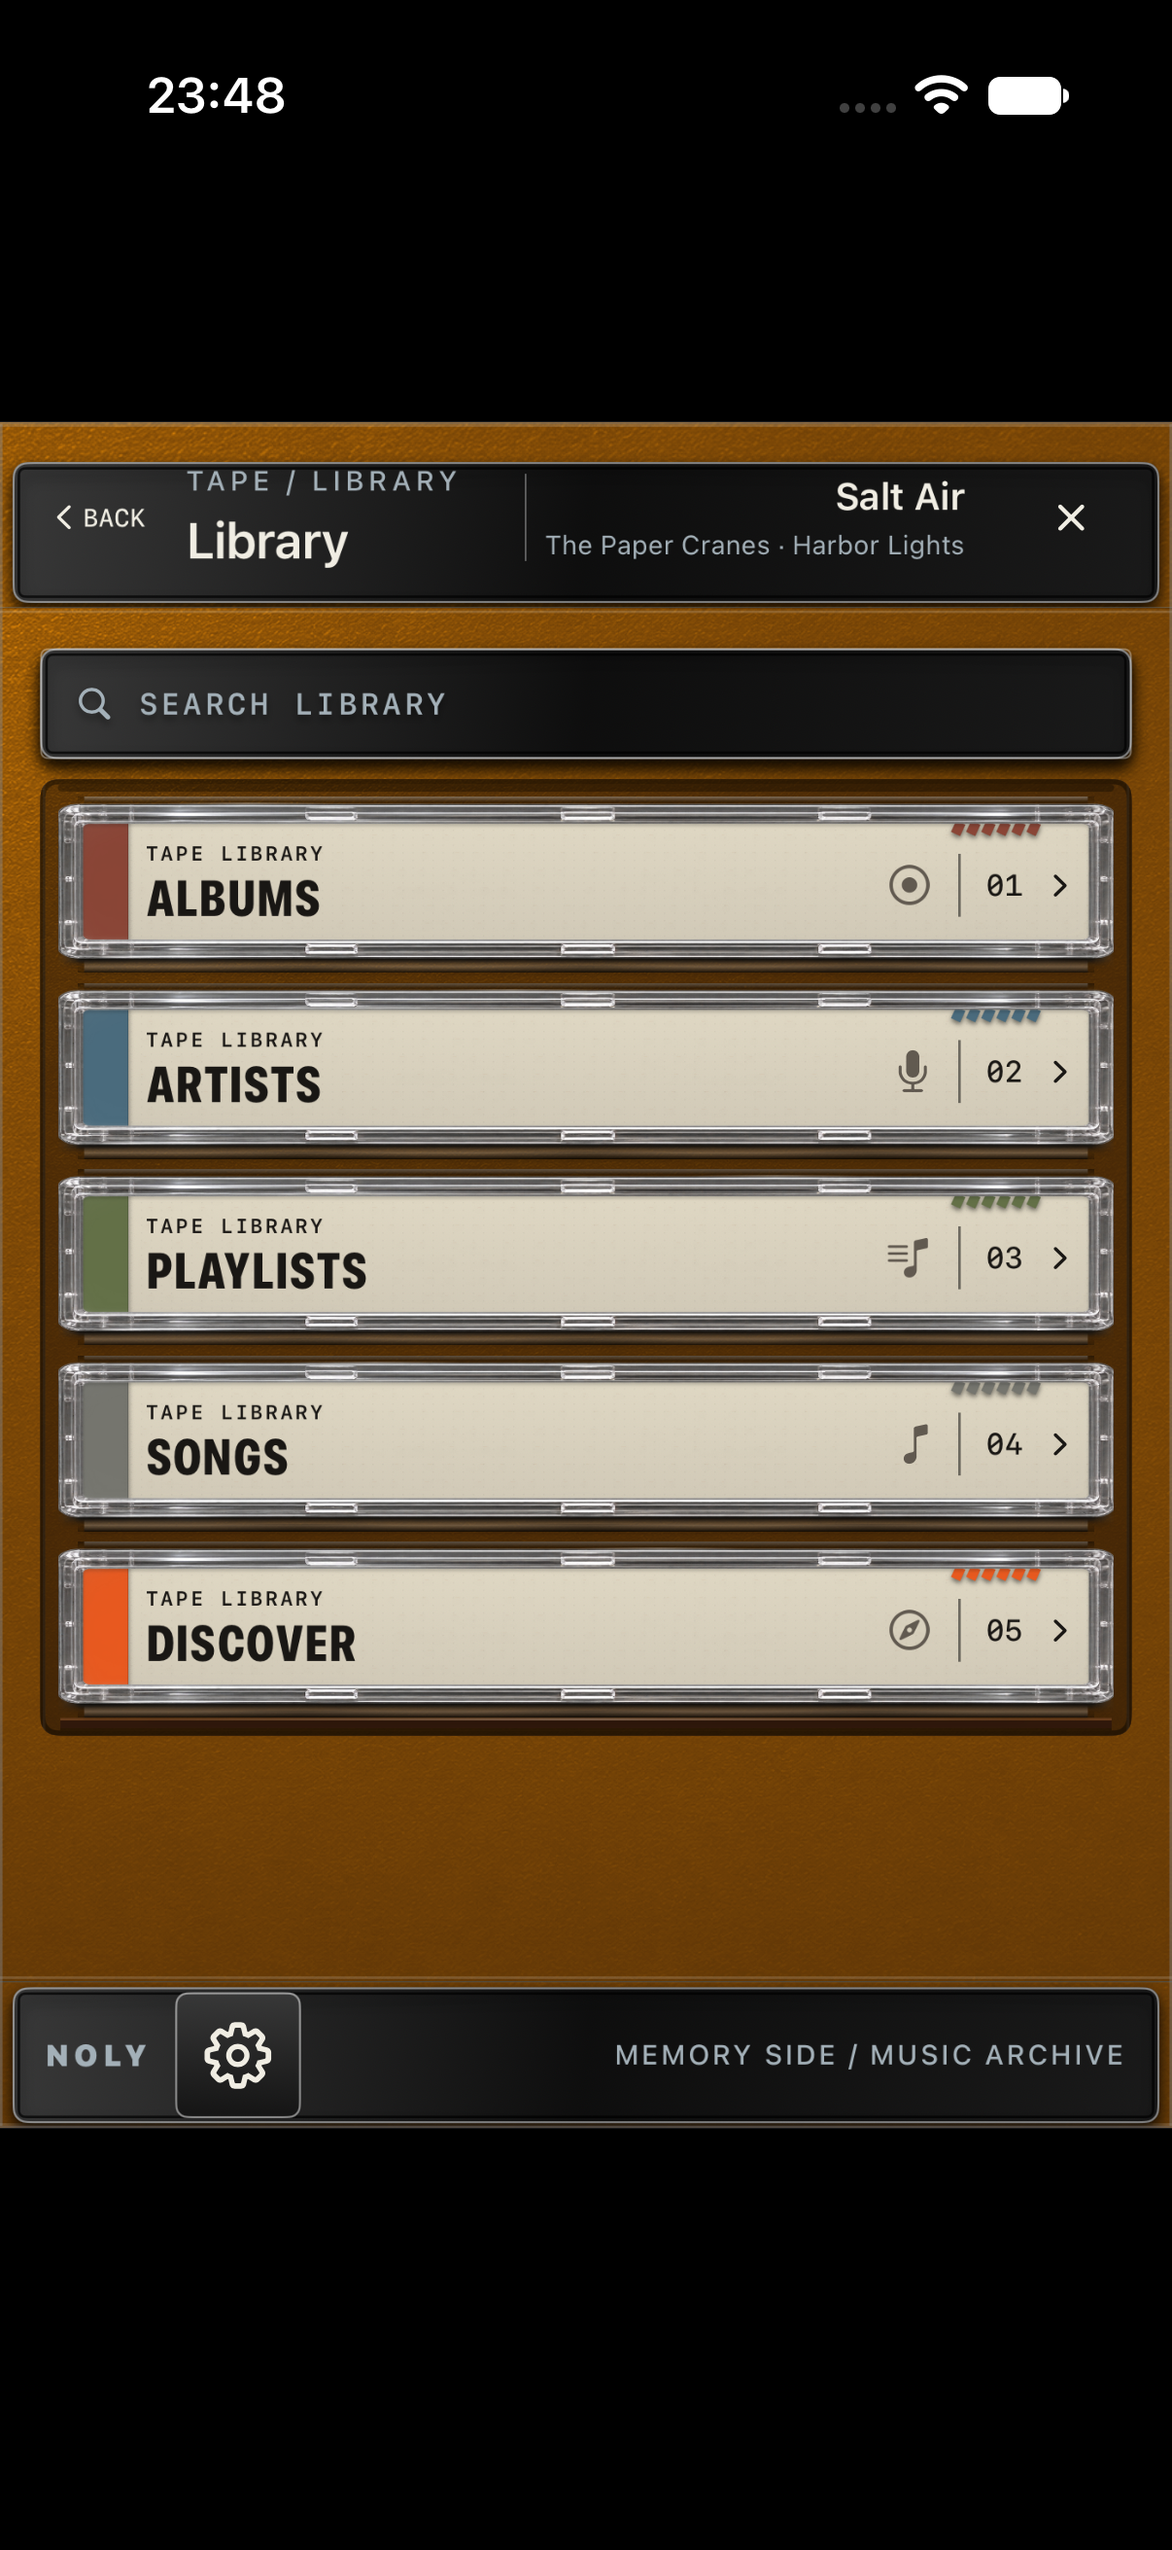
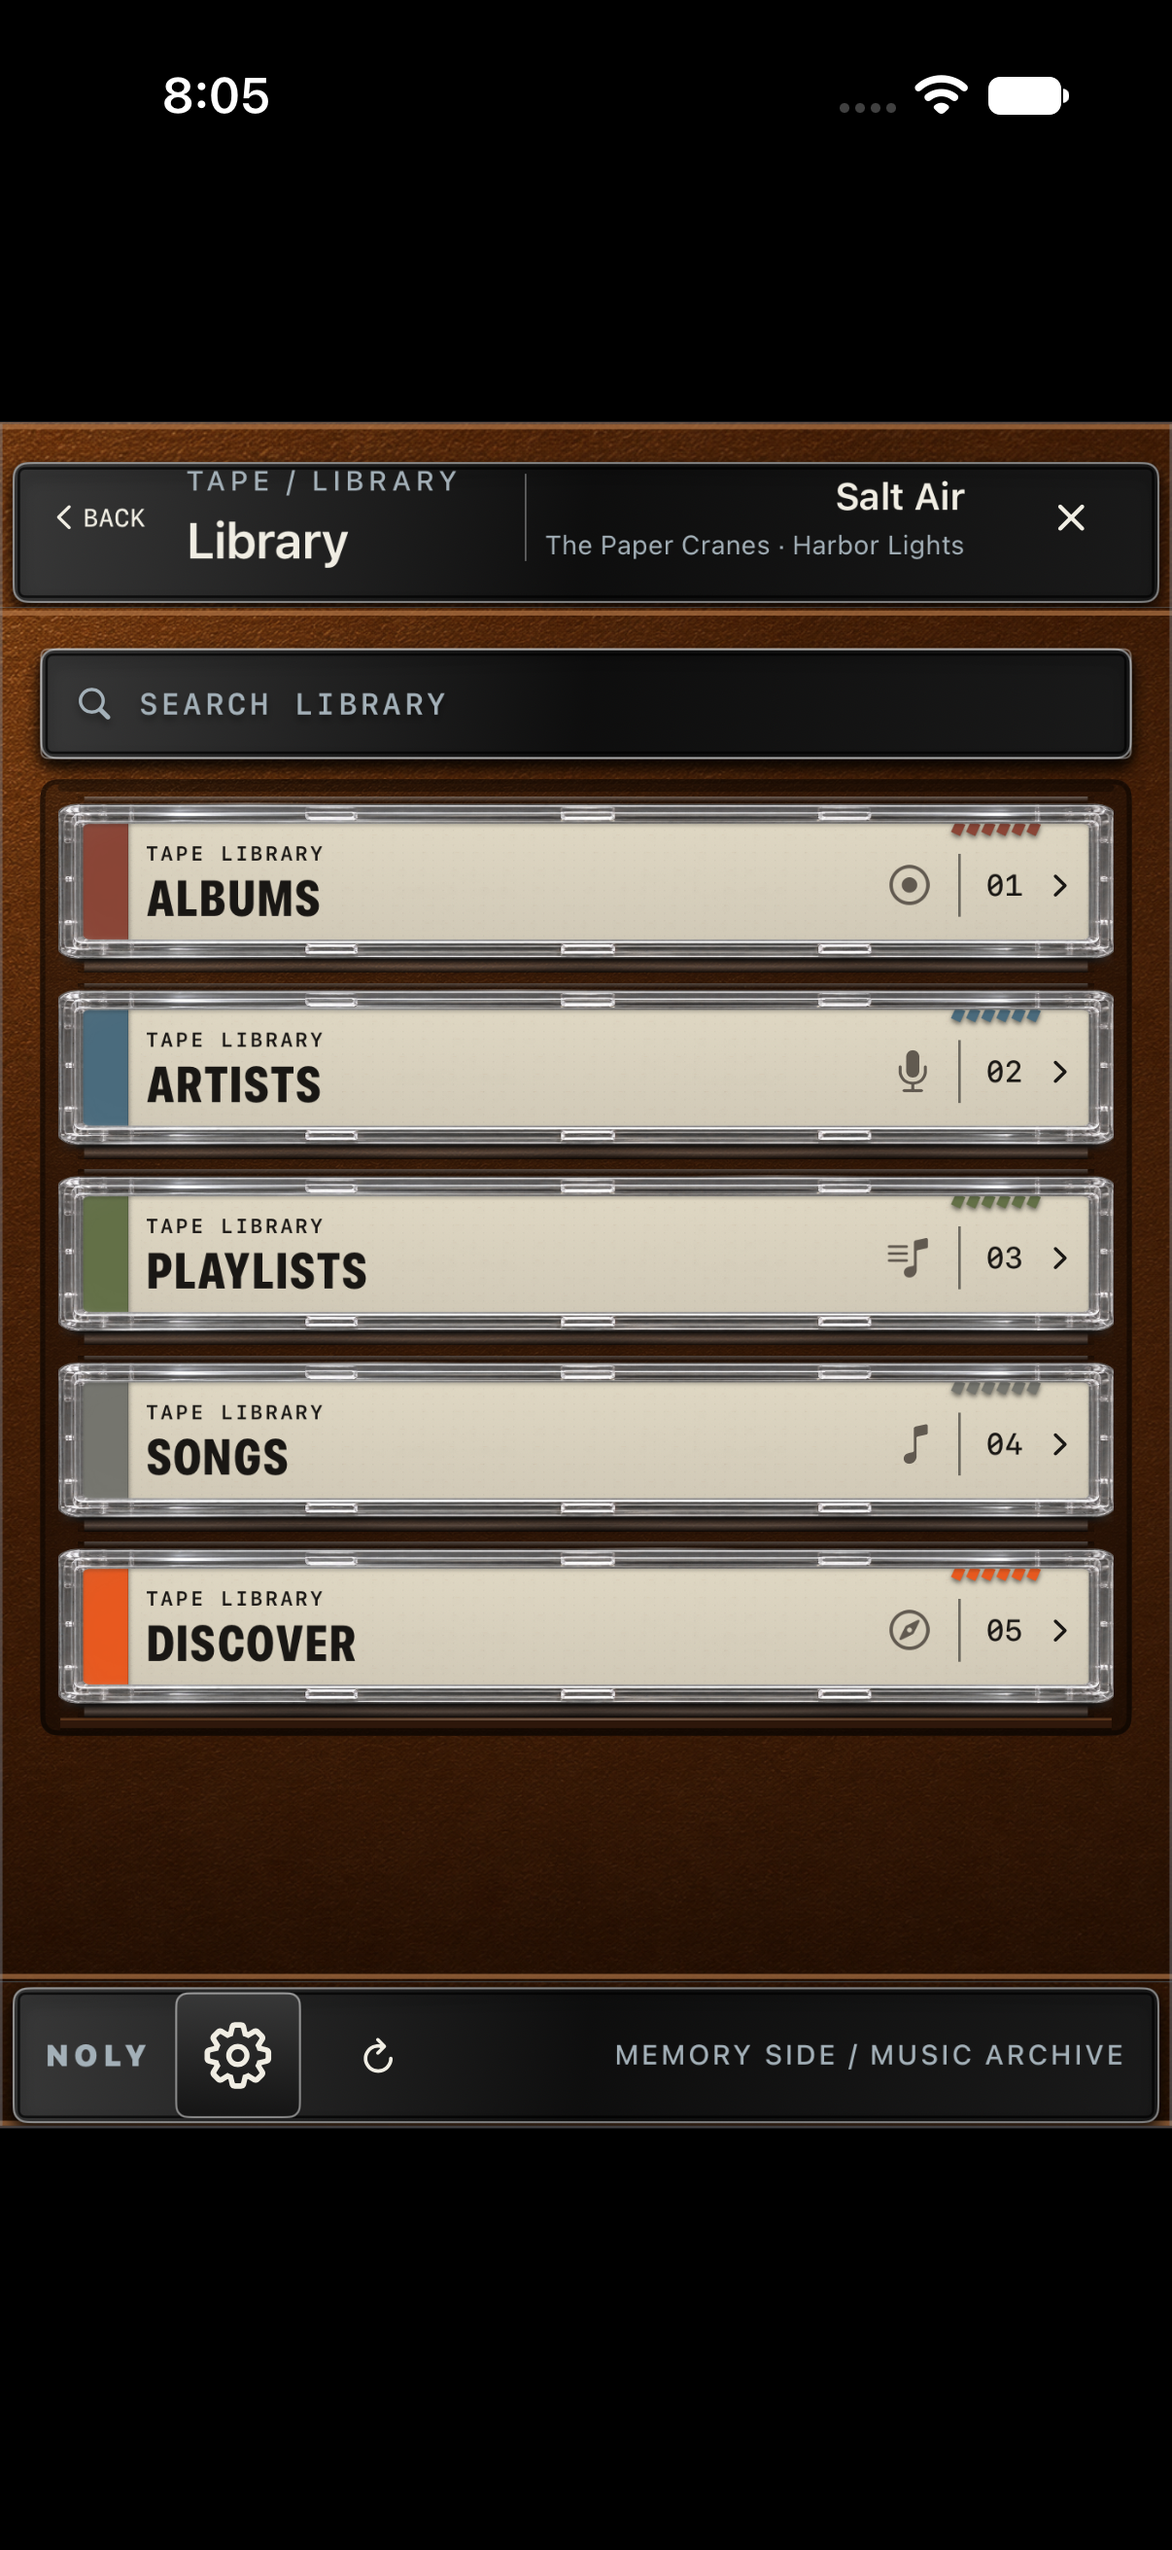
Update MEMORY SIDE guide for 1.2.1

Changed region(s): [[0.0, 0.1545, 1.0, 0.8341], [0.1227, 0.0309, 0.2454, 0.0618]]

diff --git a/memory-side/index.html b/memory-side/index.html
@@ -10,16 +10,16 @@
 <header class="mast"><a class="brand" href="./">MEMORY SIDE <span> / GUIDE</span></a><nav aria-label="ページ内メニュー"><a href="#start">使い方</a><a href="#devices">デバイス</a><a href="#customize">カスタマイズ</a><a href="#faq">FAQ</a></nav></header>
 <main>
 <section class="hero"><div><p class="eyebrow">YOUR MUSIC, ON TAPE</p><h1>好きな音楽を、<br>カセットに。</h1><p class="lead">MEMORY SIDE は、ミュージックライブラリのアルバムやプレイリストをカセットとして楽しむプレーヤーです。</p><a class="button" href="#start">使い方を見る <span aria-hidden="true">↗</span></a></div><figure class="hero-image"><img src="images/iphone-closed.png" alt="オレンジのプレーヤーを表示した iPhone の Closed 画面"><figcaption>iPhone Simulator の Closed 画面（サンプルの音楽を表示）</figcaption></figure></section>
-<section id="start" class="section"><div class="section-head"><p class="eyebrow">GETTING STARTED</p><h2>音楽をセットする</h2><p>初回は「メディアと Apple Music」へのアクセスを許可してください。</p></div><ol class="steps"><li><b>Library を開く</b><p>iPhoneではカセット窓または上部ドットパネルをタップします。iPad横向きとiPhone Duoの展開時は Library が表示されます。</p><a href="#library-guide-title">開き方を画像で見る ↓</a></li><li><b>聴きたい音楽を選ぶ</b><p>ALBUMS、ARTISTS、PLAYLISTS、SONGS から探します。</p><figure class="inline-shot"><img loading="lazy" src="images/iphone-library.png" alt="iPhoneのLibraryメニュー"><figcaption>Libraryで音楽を選ぶ</figcaption></figure></li><li><b>SET して再生</b><p>アルバムやプレイリストの SET を押し、再生キーを押します。</p><figure class="inline-shot"><img loading="lazy" src="images/iphone-set.png" alt="アルバム一覧のSETキー"><figcaption>アルバムをSET</figcaption></figure></li></ol></section>
+<section id="start" class="section"><div class="section-head"><p class="eyebrow">GETTING STARTED</p><h2>音楽をセットする</h2><p>初回は「メディアと Apple Music」へのアクセスを許可してください。</p></div><ol class="steps"><li><b>Library を開く</b><p>iPhoneでは上部ドットパネルをタップします。iPad横向きとiPhone Duoの展開時は Library が表示されます。</p><a href="#library-guide-title">開き方を画像で見る ↓</a></li><li><b>聴きたい音楽を選ぶ</b><p>ALBUMS、ARTISTS、PLAYLISTS、SONGS から探します。</p><figure class="inline-shot"><img loading="lazy" src="images/iphone-library.png" alt="iPhoneのLibraryメニュー"><figcaption>Libraryで音楽を選ぶ</figcaption></figure></li><li><b>SET して再生</b><p>アルバムやプレイリストの SET を押し、再生キーを押します。</p><figure class="inline-shot"><img loading="lazy" src="images/iphone-set.png" alt="アルバム一覧のSETキー"><figcaption>アルバムをSET</figcaption></figure></li></ol></section>
 <section class="section library-guide" aria-labelledby="library-guide-title">
-<div class="section-head"><p class="eyebrow">OPEN THE LIBRARY</p><h2 id="library-guide-title">Libraryの開き方</h2><p>iPhoneでは、プレーヤーの状態に合わせて2つの場所から開けます。</p></div>
+<div class="section-head"><p class="eyebrow">OPEN THE LIBRARY</p><h2 id="library-guide-title">Libraryの開き方</h2><p>iPhoneでは、ふたの開閉にかかわらず、画面上部のドットパネルをタップして開きます。</p></div>
 <div class="entry-guides">
-<article class="entry-guide"><div><span class="guide-label">CLOSED PLAYER</span><h3>カセット窓をタップ</h3><p>ふたが閉じているときは、カセットが見える窓をタップします。</p></div><figure><div class="annotated-shot"><img src="images/iphone-closed.png" alt="iPhoneの閉じたプレーヤー。カセット窓をタップしてLibraryを開きます。" loading="lazy"><span class="tap-highlight tap-window" aria-hidden="true"><span>TAP</span></span></div><figcaption>Closed · カセット窓</figcaption></figure></article>
-<article class="entry-guide"><div><span class="guide-label">OPEN PLAYER</span><h3>上部ドットパネルをタップ</h3><p>EJECTでふたを開いたら、曲名などが表示される上部のパネルをタップします。</p></div><figure><div class="annotated-shot"><img src="images/iphone-open.png" alt="iPhoneの開いたプレーヤー。上部ドットパネルをタップしてLibraryを開きます。" loading="lazy"><span class="tap-highlight tap-display" aria-hidden="true"><span>TAP</span></span></div><figcaption>Open · 上部ドットパネル</figcaption></figure></article>
-</div><p class="image-note">枠は操作する場所を示した案内用の注釈です。画面はSimulator、楽曲はサンプルです。</p></section>
-<section id="library" class="section tinted"><div class="section-head"><p class="eyebrow">LIBRARY</p><h2>探す、選ぶ、聴く。</h2></div><div class="cards"><article><h3>Library</h3><p>自分のライブラリのアルバム、アーティスト、プレイリスト、曲を見られます。SONGS やアーティストの ALL SONGS などの曲一覧で曲を選ぶと、選んだ曲から後の曲を一覧順に最大120分収めた編集テープを作り、その曲から再生します。</p></article><article><h3>SEARCH LIBRARY</h3><p>自分のライブラリの中からアルバム、アーティスト、プレイリスト、曲を検索します。</p><figure class="inline-shot"><img loading="lazy" src="images/iphone-search.png" alt="SEARCH LIBRARYの検索結果"><figcaption>SEARCH LIBRARY</figcaption></figure></article><article><h3>DISCOVER</h3><p>Apple Music のカタログ全体から探します。カタログの再生には対応する Apple Music のサブスクリプションが必要です。地域や配信状況により再生できない項目もあります。</p><figure class="inline-shot"><img loading="lazy" src="images/iphone-discover.png" alt="DISCOVERの検索結果"><figcaption>DISCOVER</figcaption></figure></article></div></section>
+<article class="entry-guide"><div><span class="guide-label">CLOSED PLAYER</span><h3>ドットパネルをタップ</h3><p>ふたが閉じているときは、画面上部のドットパネルをタップします。</p></div><figure><div class="annotated-shot"><img src="images/iphone-closed-library-guide.png" alt="iPhoneの閉じたプレーヤー。上部ドットパネルをタップしてLibraryを開きます。" loading="lazy"><span class="tap-highlight tap-display" aria-hidden="true"><span>TAP</span></span></div><figcaption>Closed · ドットパネル</figcaption></figure></article>
+<article class="entry-guide"><div><span class="guide-label">OPEN PLAYER</span><h3>ドットパネルをタップ</h3><p>EJECTでふたを開いたら、曲名などが表示される上部のパネルをタップします。</p></div><figure><div class="annotated-shot"><img src="images/iphone-open.png" alt="iPhoneの開いたプレーヤー。上部ドットパネルをタップしてLibraryを開きます。" loading="lazy"><span class="tap-highlight tap-display" aria-hidden="true"><span>TAP</span></span></div><figcaption>Open · 上部ドットパネル</figcaption></figure></article>
+</div><p>ドットパネルには、再生中の曲の位置と時間も表示されます（例：3/12 1:23/4:56）。</p><p class="image-note">枠は操作する場所を示した案内用の注釈です。画面はSimulator、楽曲はサンプルです。</p></section>
+<section id="library" class="section tinted"><div class="section-head"><p class="eyebrow">LIBRARY</p><h2>探す、選ぶ、聴く。</h2></div><div class="cards"><article><h3>Library</h3><p>自分のライブラリのアルバム、アーティスト、プレイリスト、曲を見られます。SONGS やアーティストの ALL SONGS などの曲一覧で曲を選ぶと、選んだ曲から後の曲を一覧順に最大120分収めた編集テープを作り、その曲から再生します。ライブラリは自動で最新の状態に保たれます。Library の下部にある設定ギアの隣の更新ボタンを押すと、その場で更新することもできます。</p></article><article><h3>SEARCH LIBRARY</h3><p>自分のライブラリの中からアルバム、アーティスト、プレイリスト、曲を検索します。</p><figure class="inline-shot"><img loading="lazy" src="images/iphone-search.png" alt="SEARCH LIBRARYの検索結果"><figcaption>SEARCH LIBRARY</figcaption></figure></article><article><h3>DISCOVER</h3><p>Apple Music のカタログ全体から探します。カタログの再生には対応する Apple Music のサブスクリプションが必要です。地域や配信状況により再生できない項目もあります。</p><figure class="inline-shot"><img loading="lazy" src="images/iphone-discover.png" alt="DISCOVERの検索結果"><figcaption>DISCOVER</figcaption></figure></article></div></section>
 <section id="controls" class="section"><div class="section-head"><p class="eyebrow">CONTROLS</p><h2>カセットと再生操作</h2></div><div class="control-guide"><div class="prose"><p><strong>SET</strong> は選んだアルバムやプレイリストをカセットとしてセットします。準備ができるまでお待ちください。</p><h3>カセットを入れ替える</h3><ol class="gesture-steps"><li>EJECT を押して、ふたを開きます。</li><li>カセットを右へ動かします。</li><li>取り出した位置で上下に動かして、別のカセットを選びます。</li><li>カセットを左へ動かしてセットします。</li></ol><p>再生キーは再生・一時停止、停止キーは停止します。早送り・巻き戻しキーは短く押すと曲を移動し、長押しすると早送り・巻き戻しができます。</p></div><figure class="gesture-figure"><div class="gesture-image"><img loading="lazy" src="images/iphone-open.png" alt="ふたを開いたiPhoneプレーヤー。中央のカセットを右に動かしてから上下で選び、左に動かしてセットします。"><span class="gesture-marker" aria-hidden="true">② →<br>③ ↑↓<br>④ ←</span></div><figcaption>カセットを動かす方向の案内。矢印は操作説明用の注釈です。</figcaption></figure></div></section>
-<section id="devices" class="section dark"><div class="section-head"><p class="eyebrow">DEVICE GUIDE</p><h2>それぞれの画面で。</h2><p id="screens-heading">画面はSimulatorで撮影し、サンプルの音楽を表示しています。</p></div><div class="device-list"><article class="device-row"><div><h3>iPhone</h3><p>縦向きのプレーヤーです。EJECTでふたを開閉し、カセット窓や上部ドットパネルからLibraryを開きます。</p></div><figure class="device-shot"><img loading="lazy" src="images/iphone-open.png" alt="iPhoneの開いたプレーヤー"><figcaption>iPhone · Open</figcaption></figure></article><article class="device-row"><div><h3>iPad</h3><p>縦向きではClosedプレーヤー、横向きではLibraryとプレーヤーを並べて表示します。</p></div><figure class="device-shot"><img loading="lazy" src="images/ipad-landscape.png" alt="横向きのiPadに表示されたLibraryとプレーヤー"><figcaption>iPad · 横向き</figcaption></figure></article><article class="duo-guide"><h3>iPhone Duo</h3><p>開閉や姿勢に応じて画面が切り替わります。通常のiPhoneとは異なり、端末の姿勢に合わせた表示を使えます。</p><div class="duo-states"><figure><img loading="lazy" src="images/duo-closed.png" alt="iPhone Duoの外側画面に表示されたプレーヤー"><figcaption><strong>Closed</strong><br>閉じた状態では外側画面にプレーヤーを表示します。</figcaption></figure><figure><img loading="lazy" src="images/duo-open.png" alt="展開したiPhone DuoのLibraryとプレーヤー"><figcaption><strong>Open</strong><br>展開した内側画面にLibraryとプレーヤーを表示します。</figcaption></figure><figure><img loading="lazy" src="images/duo-tabletop.png" alt="iPhone DuoのTabletop画面。上側にプレーヤー、下側に再生操作とLibrary"><figcaption><strong>Tabletop</strong><br>上側は鑑賞用のプレーヤー、下側は再生操作とLibraryです。</figcaption></figure></div></article></div></section>
+<section id="devices" class="section dark"><div class="section-head"><p class="eyebrow">DEVICE GUIDE</p><h2>それぞれの画面で。</h2><p id="screens-heading">画面はSimulatorで撮影し、サンプルの音楽を表示しています。</p></div><div class="device-list"><article class="device-row"><div><h3>iPhone</h3><p>縦向きのプレーヤーです。EJECTでふたを開閉し、上部ドットパネルからLibraryを開きます。</p></div><figure class="device-shot"><img loading="lazy" src="images/iphone-open.png" alt="iPhoneの開いたプレーヤー"><figcaption>iPhone · Open</figcaption></figure></article><article class="device-row"><div><h3>iPad</h3><p>縦向きではClosedプレーヤー、横向きではLibraryとプレーヤーを並べて表示します。</p></div><figure class="device-shot"><img loading="lazy" src="images/ipad-landscape.png" alt="横向きのiPadに表示されたLibraryとプレーヤー"><figcaption>iPad · 横向き</figcaption></figure></article><article class="duo-guide"><h3>iPhone Duo</h3><p>開閉や姿勢に応じて画面が切り替わります。通常のiPhoneとは異なり、端末の姿勢に合わせた表示を使えます。</p><div class="duo-states"><figure><img loading="lazy" src="images/duo-closed.png" alt="iPhone Duoの外側画面に表示されたプレーヤー"><figcaption><strong>Closed</strong><br>閉じた状態では外側画面にプレーヤーを表示します。</figcaption></figure><figure><img loading="lazy" src="images/duo-open.png" alt="展開したiPhone DuoのLibraryとプレーヤー"><figcaption><strong>Open</strong><br>展開した内側画面にLibraryとプレーヤーを表示します。</figcaption></figure><figure><img loading="lazy" src="images/duo-tabletop.png" alt="iPhone DuoのTabletop画面。上側にプレーヤー、下側に再生操作とLibrary"><figcaption><strong>Tabletop</strong><br>上側は鑑賞用のプレーヤー、下側は再生操作とLibraryです。</figcaption></figure></div></article></div></section>
 <section id="customize" class="section appearance-gallery"><div class="section-head"><p class="eyebrow">MAKE IT YOURS</p><h2>お気に入りの一台に。</h2><p>Libraryの歯車をタップして端末の設定を開き、MEMORY SIDEの設定で変更できます。変更はアプリに戻ると反映されます。</p></div><div class="section-head"><p class="eyebrow">PLAYER COLORS</p><h2 id="palette-title">5つの本体カラー</h2><p>「本体カラー」でデフォルト、ブラック、アイボリー、シルバー、オレンジから選べます。</p></div><div class="palette-grid">
 <figure><div class="palette-frame"><img loading="lazy" src="images/body-default.png" alt="デフォルトのプレーヤー"></div><figcaption>デフォルト</figcaption></figure>
 <figure><div class="palette-frame"><img loading="lazy" src="images/body-black.png" alt="ブラックのプレーヤー"></div><figcaption>ブラック</figcaption></figure>
